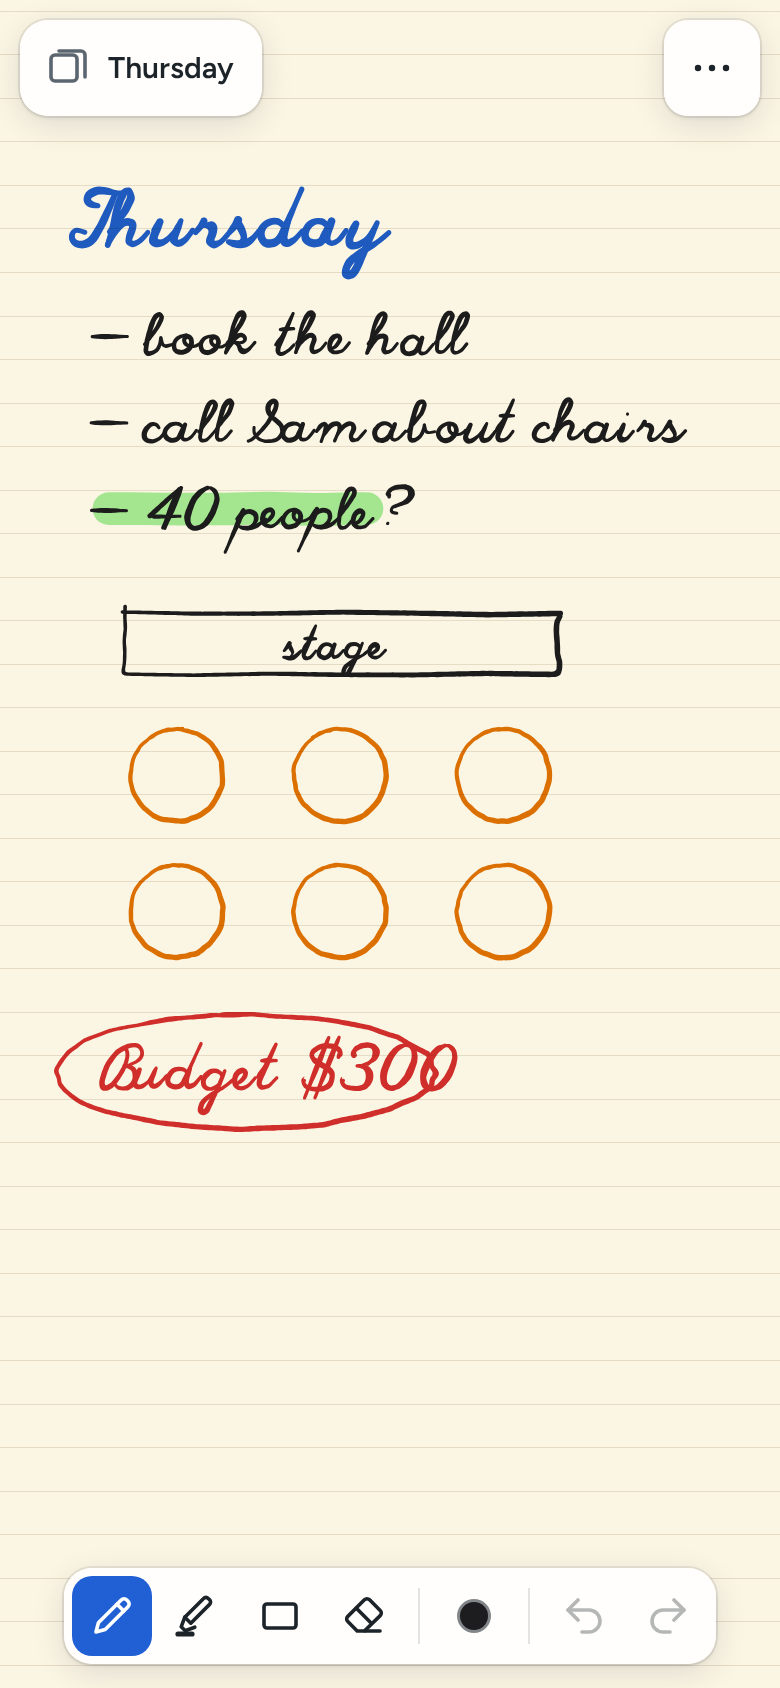
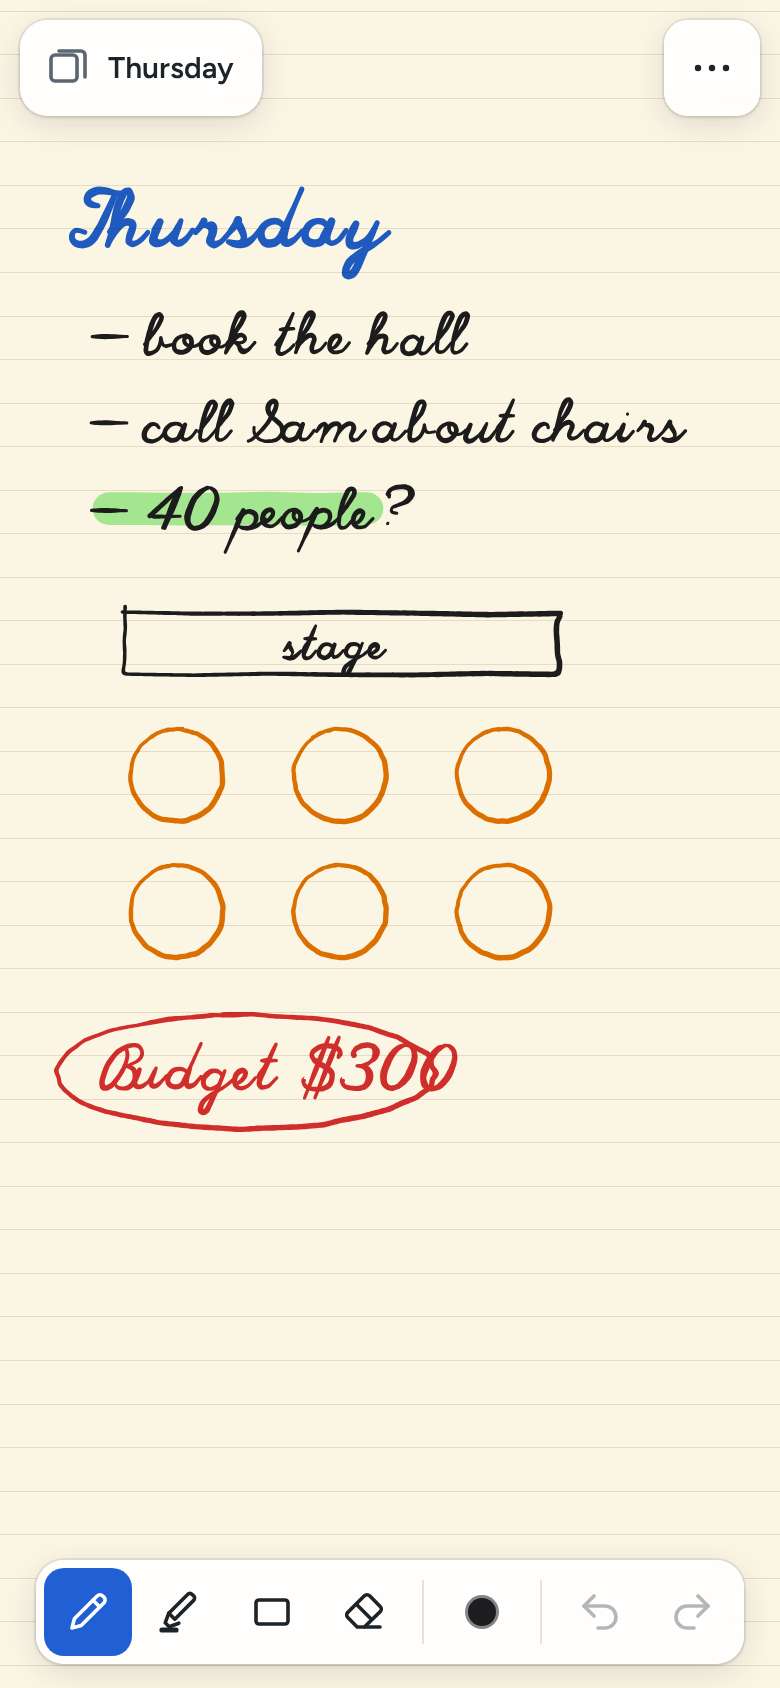
The toolbar's buttons are 44 points to tap
The phone toolbar's seven buttons were 40 points square, and on a tablet or computer the colours and sizes were 40 tall and the zoom percentage 36. This answers Mark's 'Make the toolbar buttons a little bigger to tap' (he took the suggestion). On a phone the seven buttons are now 44 square, which fits from 375 points wide; narrower, they're 44 tall and as wide as there is room for (39.7 at 340, 42.6 at 360), and the narrowest phones keep the bar-fitting rules they had. The colours' pop-up and the messages at the bottom move up 4 points to stay clear of the taller bar. On a tablet or computer the circles keep their size: only the tappable area round each colour and size grows to 44 tall, the toolbar gets 4 points taller (and the shapes' pop-up sits 4 lower under it), and the zoom percentage takes a tap 4 points above or below it. The README's tablet and phone pictures show the new toolbar. New e2e checks measure the buttons from 280 to 390 wide and the colours, sizes, pop-up gap and zoom tap area at 1180; they fail before this.

Claude-Session: https://claude.ai/code/session_01PQbLNUvRMPCiJKAR12LKFV

Changed region(s): [[0.0308, 0.9242, 0.9538, 0.9858]]

diff --git a/css/app.css b/css/app.css
@@ -215,7 +215,7 @@ body[data-bg="slate"] .hint, body[data-bg="slate"] .hint b { color: rgba(255, 25
   display: grid;
   place-items: center;
   width: 32px;
-  height: 40px;
+  height: 44px; /* (44 tall to tap, the toolbar a little taller than its tools for it; the circles keep their size) */
   padding: 0;
   border: 0;
   background: transparent;
@@ -273,6 +273,8 @@ body[data-using="eraser"] .size i { background: transparent; border: 2px solid c
   span.narrow { display: block; }
   .boards-btn span { max-width: 160px; }
 }
+/* (With the colours and sizes in it, the toolbar is 52 px tall, and the shapes' pop-up sits under it.) */
+@media (min-width: 860px) { .pop { top: calc(var(--safe-t) + 70px); } }
 .pop {
   position: fixed;
   z-index: 11;
@@ -303,6 +305,8 @@ body[data-using="eraser"] .size i { background: transparent; border: 2px solid c
   opacity: 0.72;
   transition: opacity 0.2s;
 }
+/* 44 tall to tap, though it looks 36. */
+.zoom::after { content: ''; position: absolute; inset: -4px 0; }
 .zoom.on { opacity: 1; }
 @media (hover: hover) { .zoom:hover { opacity: 1; } }
 
@@ -318,7 +322,10 @@ body[data-using="eraser"] .size i { background: transparent; border: 2px solid c
     margin: 0;
   }
   .tools, .pop { max-width: calc(100vw - 16px - var(--safe-l) - var(--safe-r)); }
-  .pop { top: auto; bottom: calc(var(--safe-b) + 70px); }
+  /* Its seven buttons 44 px square to tap, or as wide as there's room for, whichever is less (a 390 px phone has room
+     for 44; the narrowest phones are below). */
+  .tools .tool { width: min(44px, calc((100vw - 62px - var(--safe-l) - var(--safe-r)) / 7)); height: 44px; }
+  .pop { top: auto; bottom: calc(var(--safe-b) + 74px); }
   .zoom { bottom: auto; top: calc(var(--safe-t) + 66px); right: calc(var(--safe-r) + 10px); }
   .boards-btn span { max-width: calc(100vw - 150px); }
 }
@@ -403,8 +410,8 @@ body[data-bg="slate"] .toast { box-shadow: var(--shadow), 0 0 0 1px rgba(255, 25
 }
 /* Phones: above the tools, and above the colours' pop-up while it's open (its height is set by js/app.js). */
 @media (max-width: 599px) {
-  .toast { bottom: calc(var(--safe-b) + 76px); }
-  body.popped .toast { bottom: calc(var(--safe-b) + 70px + var(--pop-h, 104px) + 8px); }
+  .toast { bottom: calc(var(--safe-b) + 80px); }
+  body.popped .toast { bottom: calc(var(--safe-b) + 74px + var(--pop-h, 104px) + 8px); }
 }
 
 /* ---------- sheets ---------- */

diff --git a/sw.js b/sw.js
@@ -8,7 +8,7 @@
 // fingerprint of every file in SHELL: change any of them and test/e2e.mjs fails until FILES is changed to match (it
 // says what to), which changes this file, so every copy is made whole again at once.
 const CACHE = 'clean-slate-v5'; // bump the number when the file list changes
-const FILES = 'a7b12b0a'; // test/e2e.mjs checks this
+const FILES = '24203afc'; // test/e2e.mjs checks this
 const SHELL = [
   './', 'index.html', 'icon.svg', 'manifest.webmanifest', 'icon-180.png', 'icon-192.png', 'icon-512.png', 'icon-512-maskable.png',
   'css/app.css', 'fonts/figtree.woff2',
